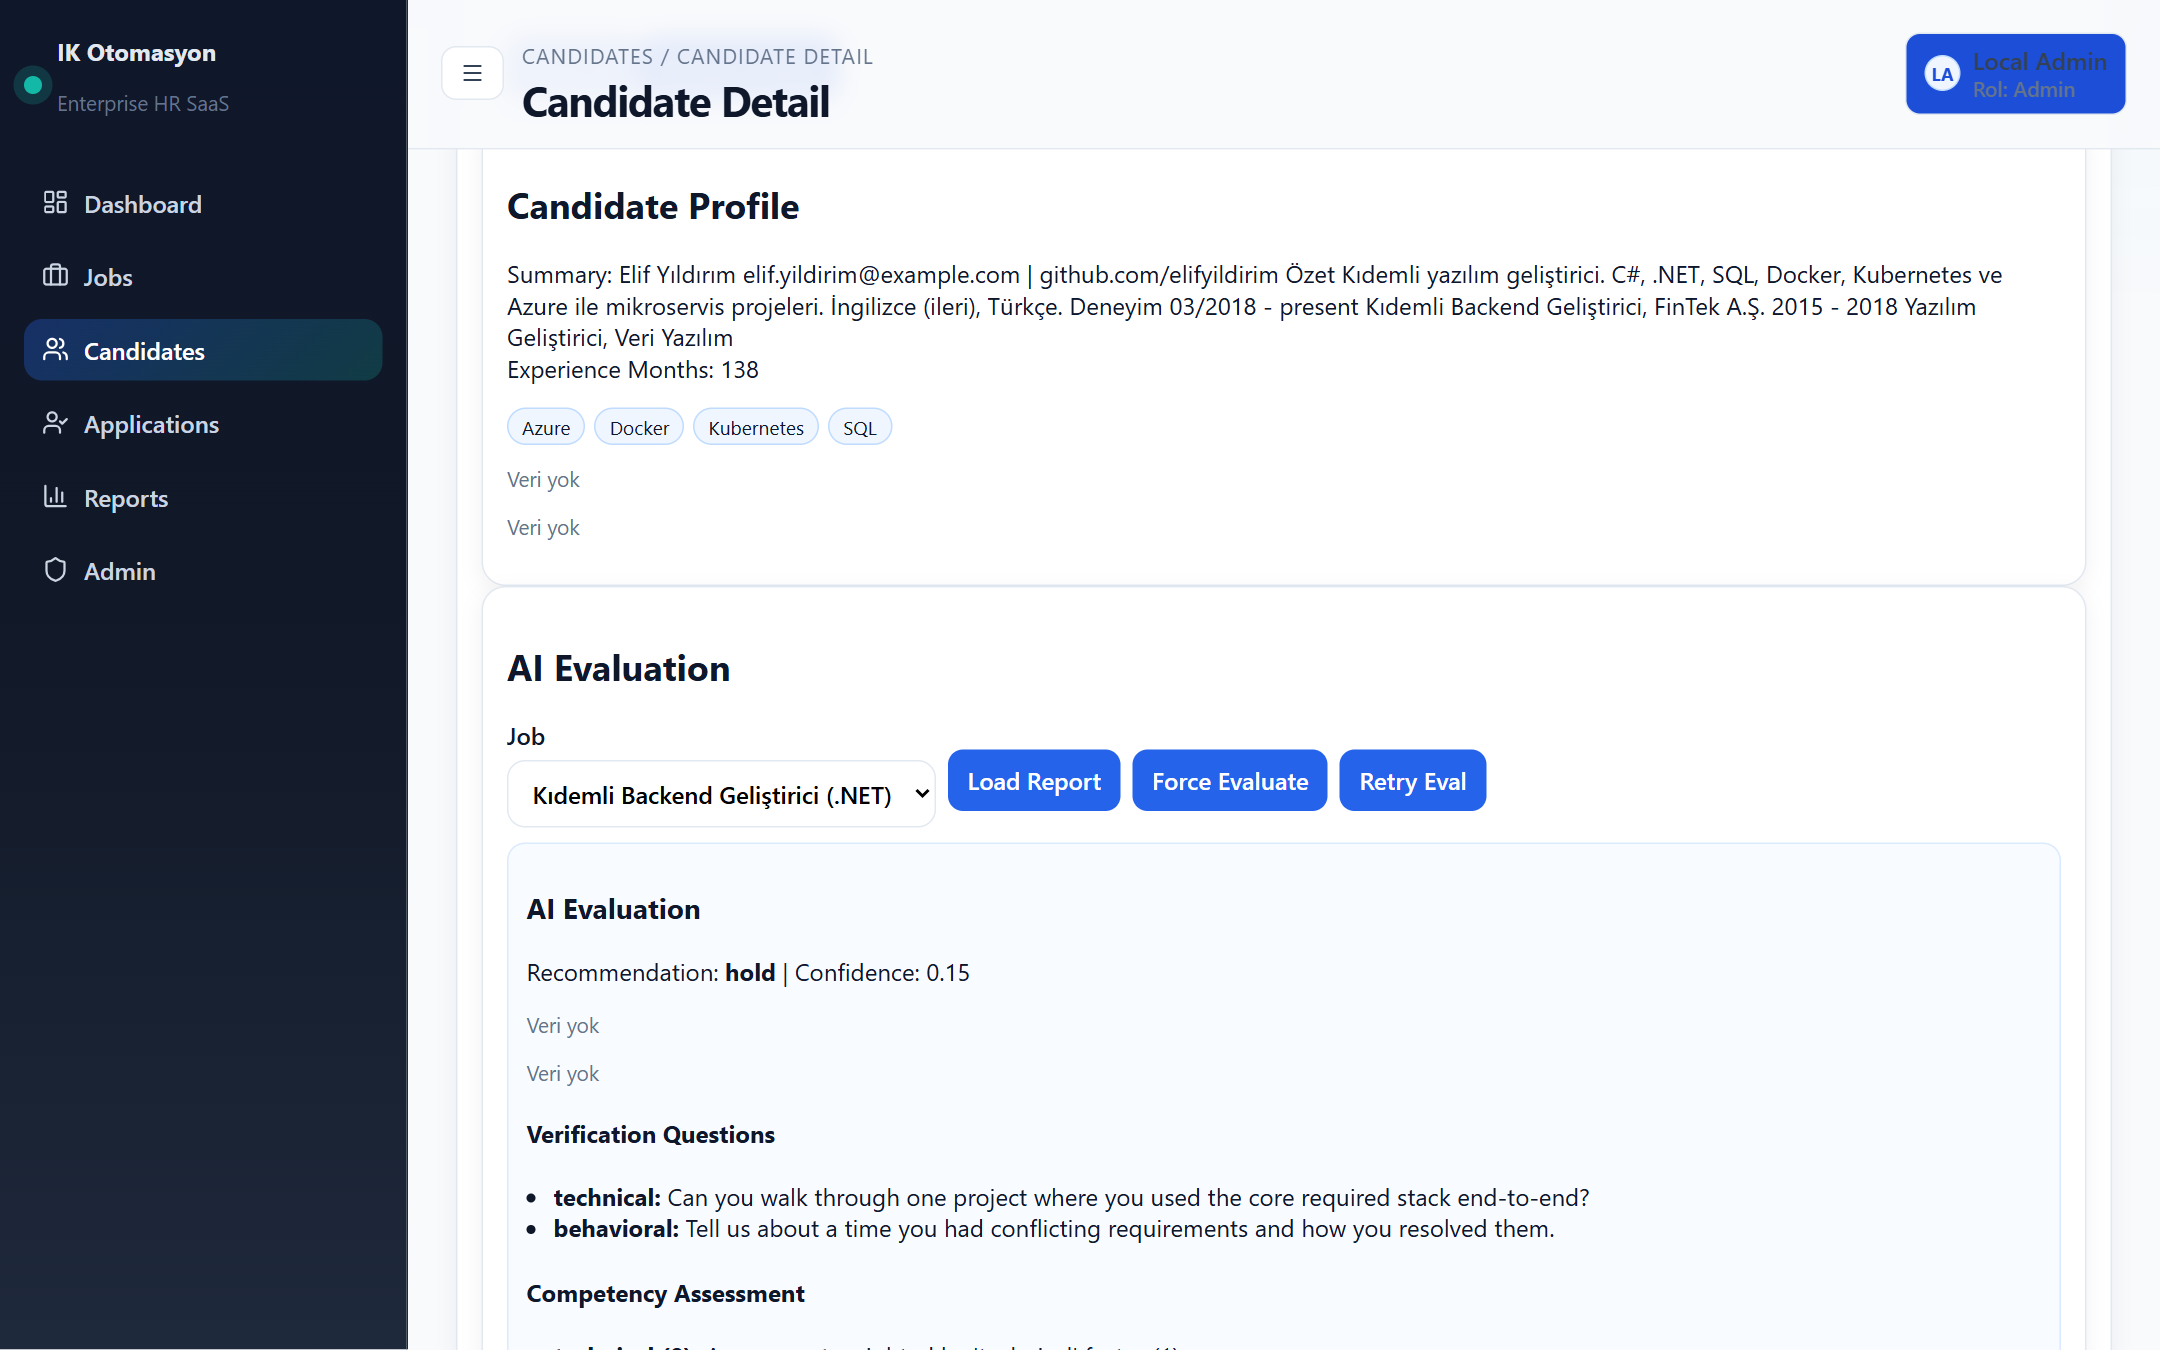
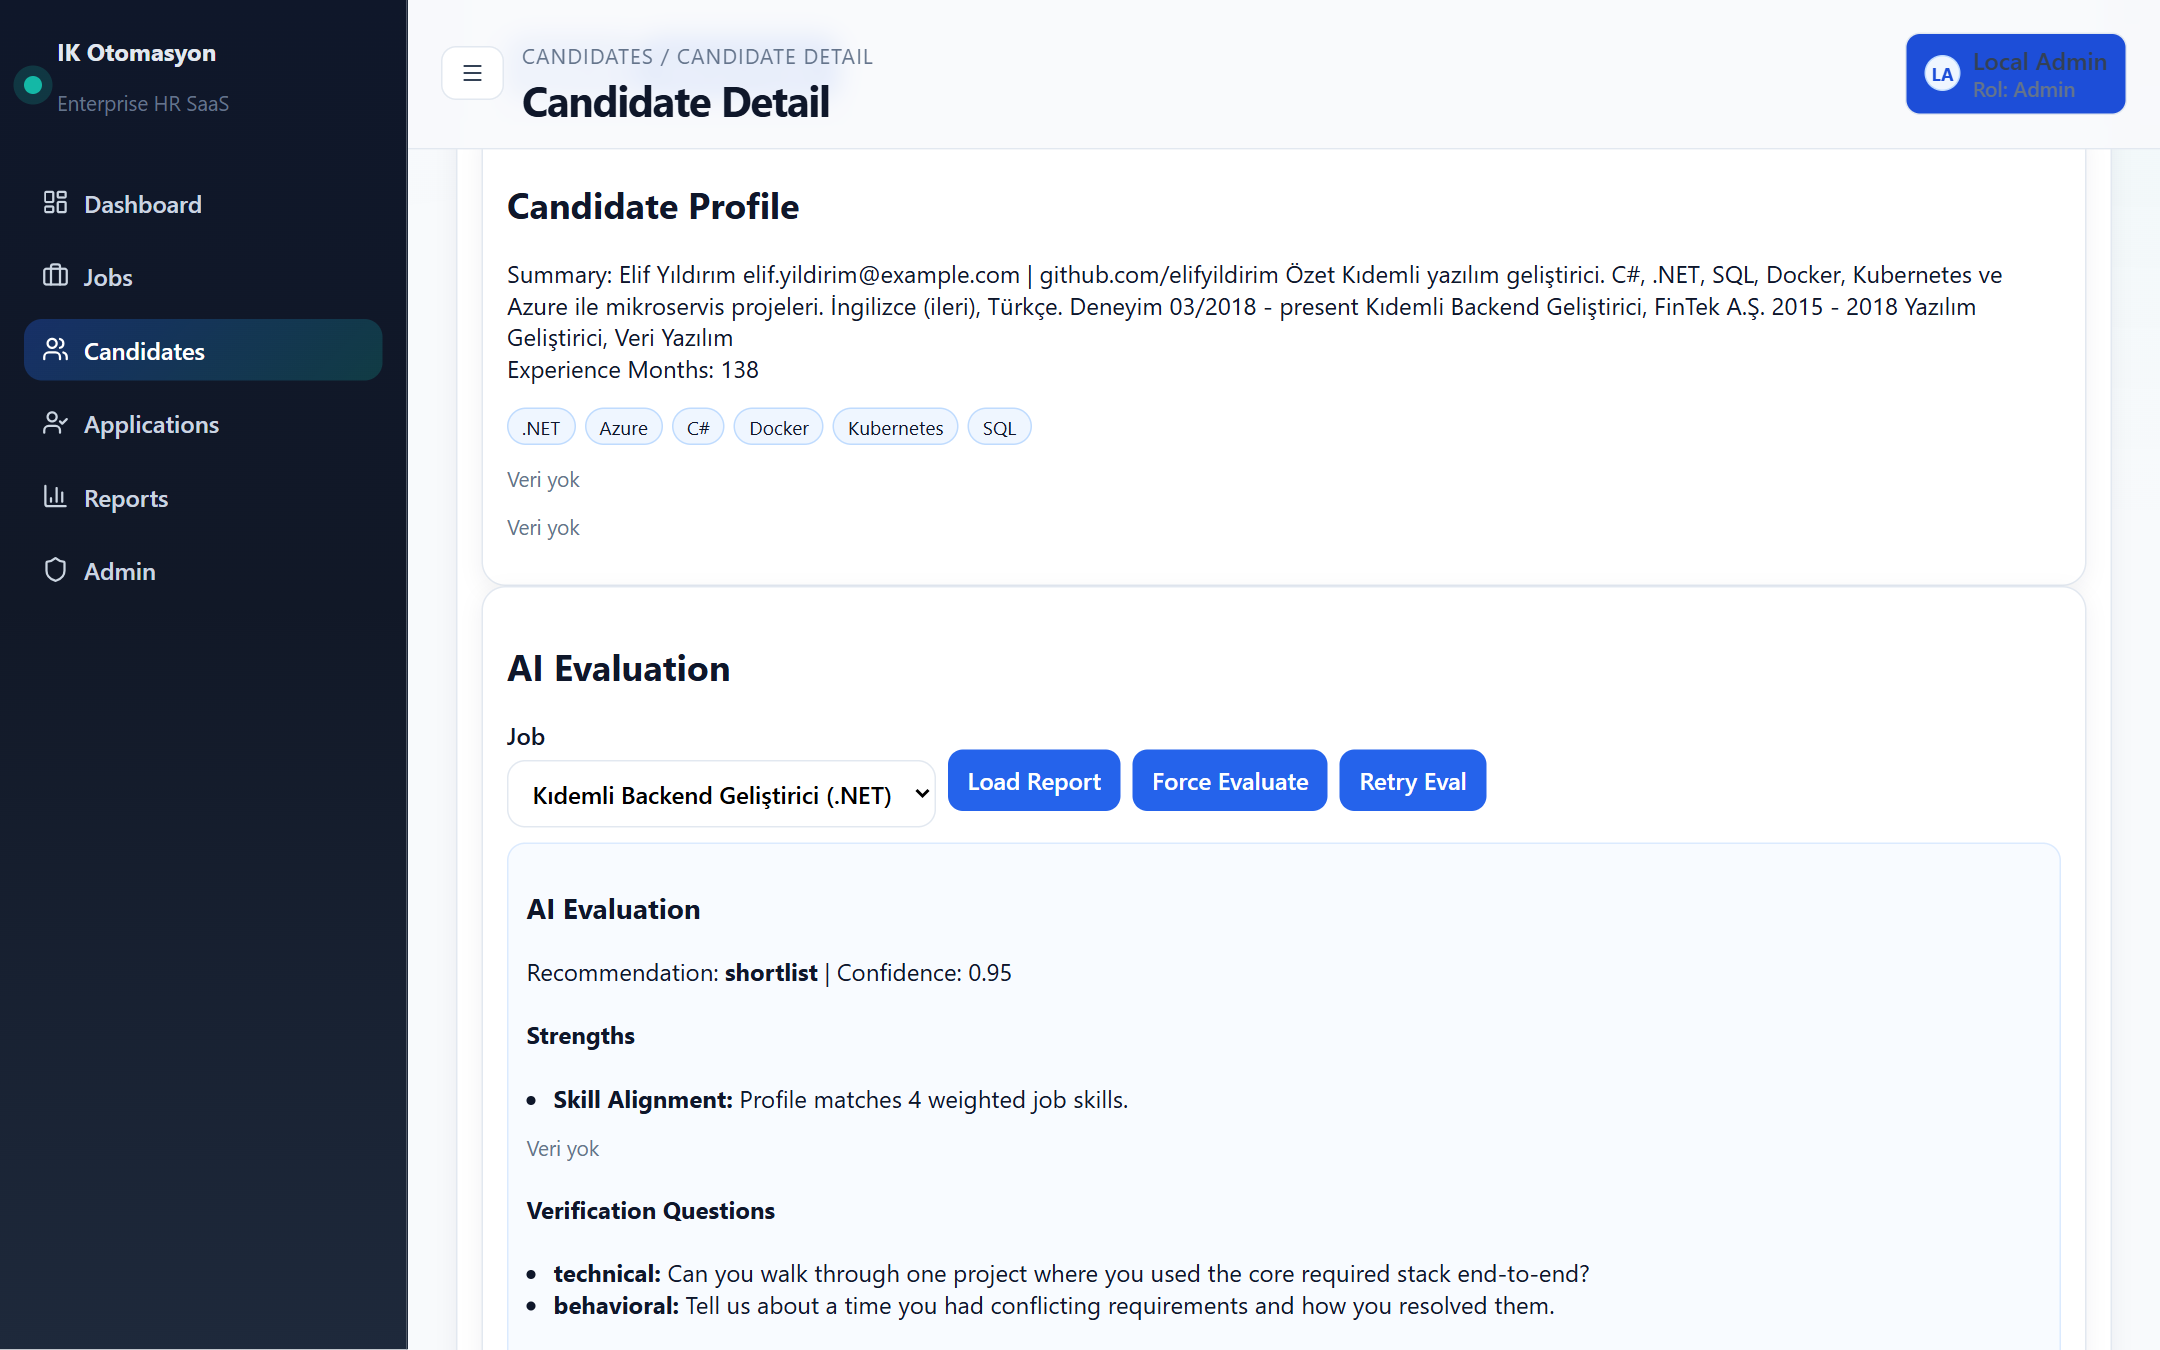
CV ayrıştırıcıda C# ve .NET becerilerinin tanınmamasını düzelt
\b kelime sınırı, harf dışı karakterle başlayan/biten becerilerde ("C#",
".NET") eşleşmiyordu; bu adaylar ilgili ilanlarda düşük eşleşme skoru
alıyordu. Kelime sınırı yerine lookaround kullanıldı. Ayrıca "Node.js"
içindeki "js" artık yanlışlıkla JavaScript olarak sayılmıyor.

CvParserService için birim testleri eklendi; ekran görüntüleri
güncel skorlarla yenilendi.

Changed region(s): [[0.2481, 0.7467, 0.7444, 1.0], [0.2481, 0.3111, 0.4653, 0.3422], [0.3412, 0.7156, 0.4653, 0.7467]]

diff --git a/backend/tests/IkOtomasyon.Api.Tests/CvParserServiceTests.cs b/backend/tests/IkOtomasyon.Api.Tests/CvParserServiceTests.cs
@@ -1,0 +1,54 @@
+using IkOtomasyon.Api.Services;
+using NPOI.XWPF.UserModel;
+
+namespace IkOtomasyon.Api.Tests;
+
+public class CvParserServiceTests
+{
+    [Theory]
+    [InlineData("Deneyim: C#, .NET, SQL ve Docker.", new[] { "C#", ".NET", "SQL", "Docker" })]
+    [InlineData("Backend: C# ile API gelistirme", new[] { "C#" })]
+    [InlineData("Stack: .NET 8 (C#)", new[] { ".NET", "C#" })]
+    [InlineData("Node.js ve JavaScript", new[] { "Node.js", "JavaScript" })]
+    public async Task ExtractsSkillsWithSymbols(string text, string[] expected)
+    {
+        var skills = await ParseTextAsync(text);
+
+        foreach (var skill in expected)
+        {
+            Assert.Contains(skill, skills);
+        }
+    }
+
+    [Theory]
+    [InlineData("Javascript uzmani", "Java")]
+    [InlineData("MySQLite degil, NoSQL", "SQL")]
+    [InlineData("gitlab kullanicisi", "Git")]
+    public async Task DoesNotMatchInsideOtherWords(string text, string unexpected)
+    {
+        var skills = await ParseTextAsync(text);
+
+        Assert.DoesNotContain(unexpected, skills);
+    }
+
+    private static async Task<IReadOnlyCollection<string>> ParseTextAsync(string text)
+    {
+        var path = Path.Combine(Path.GetTempPath(), $"cv-{Guid.NewGuid():N}.docx");
+        try
+        {
+            using (var doc = new XWPFDocument())
+            {
+                doc.CreateParagraph().CreateRun().SetText(text);
+                using var fs = File.Create(path);
+                doc.Write(fs);
+            }
+
+            var result = await new CvParserService().ParseAsync(path, "docx", "Test Aday", null);
+            return result.Skills;
+        }
+        finally
+        {
+            File.Delete(path);
+        }
+    }
+}

diff --git a/backend/Services/CvParserService.cs b/backend/Services/CvParserService.cs
@@ -104,7 +104,8 @@ public class CvParserService
         var found = new HashSet<string>(StringComparer.OrdinalIgnoreCase);
         foreach (var alias in SkillAliases)
         {
-            if (Regex.IsMatch(text, $@"\b{Regex.Escape(alias.Key)}\b", RegexOptions.IgnoreCase))
+            // \b, "C#" ve ".NET" gibi harf disi karakterle baslayan/biten becerilerde eslesmez.
+            if (Regex.IsMatch(text, $@"(?<![\w#+.]){Regex.Escape(alias.Key)}(?![\w#+])", RegexOptions.IgnoreCase))
             {
                 found.Add(alias.Value);
             }
